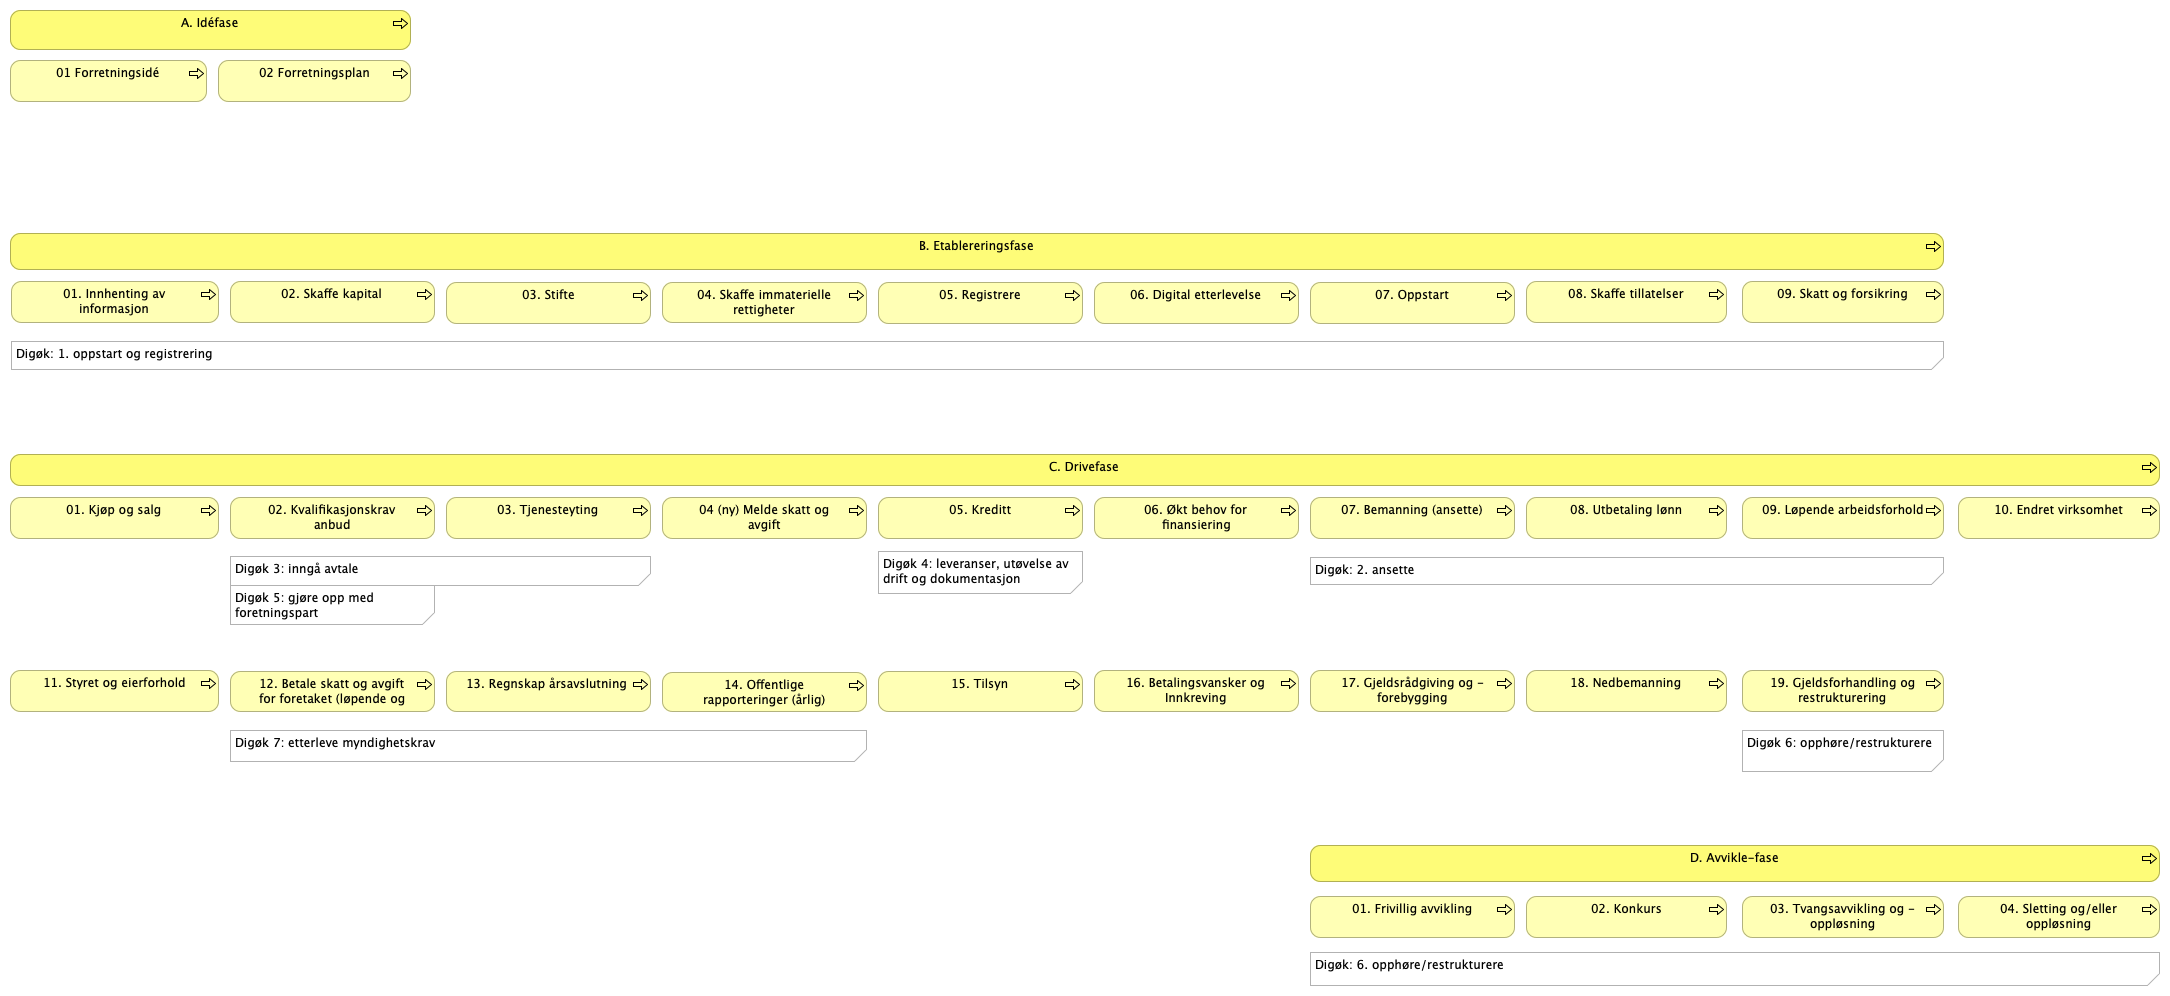
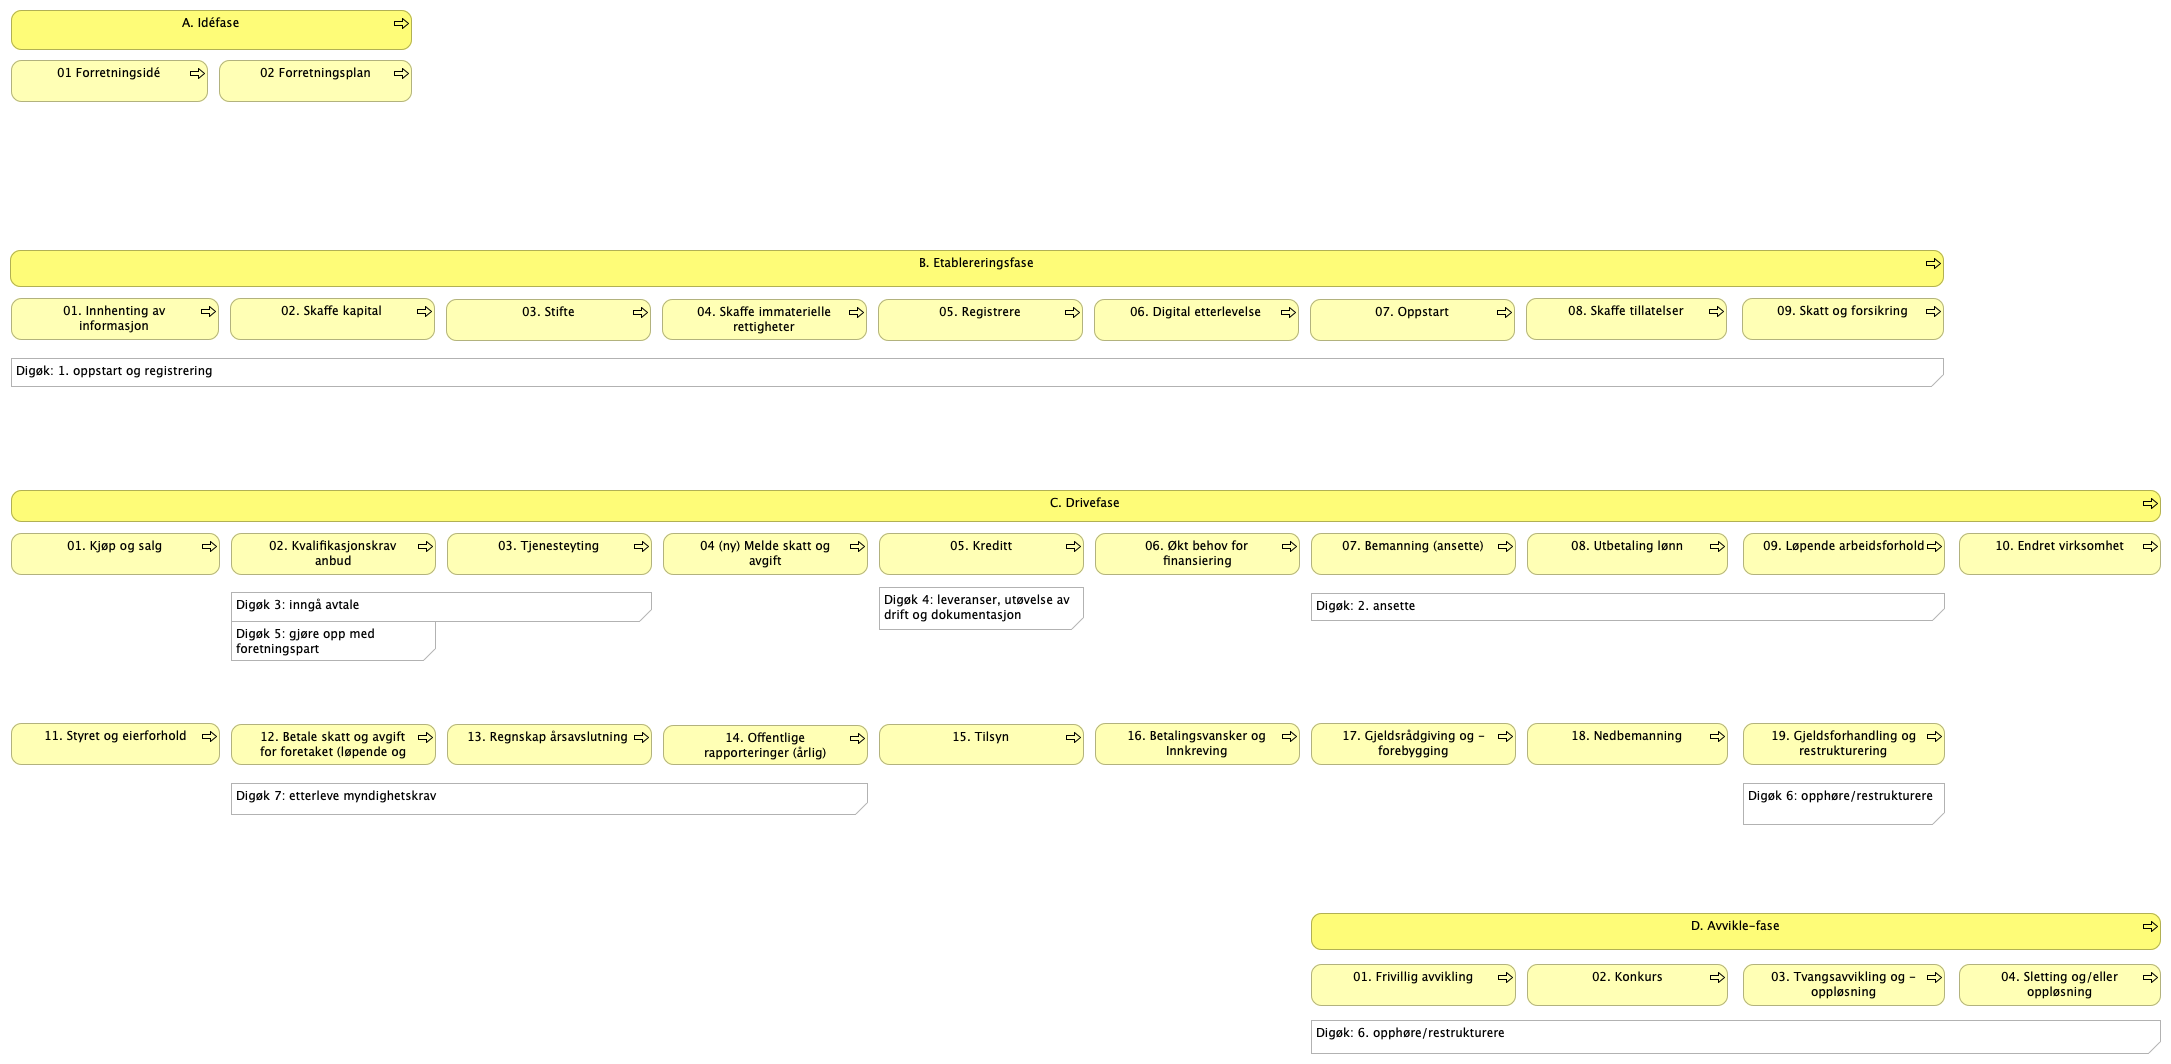
innspill fra starte og drive i Narvik

diff --git a/docs/id-0322705d/views/52bfe295-b97e-4c5e-b8cf-83361cda8c47.html b/docs/id-0322705d/views/52bfe295-b97e-4c5e-b8cf-83361cda8c47.html
@@ -27,44 +27,44 @@
 		<div class="panel-body root-panel-body">
 			<img class="diagram" src="../images/52bfe295-b97e-4c5e-b8cf-83361cda8c47.png" alt="Livshendelsen Starte og drive bedrift (user journey steg vertikalt)" usemap="#52bfe295-b97e-4c5e-b8cf-83361cda8c47map">
 			<map name="52bfe295-b97e-4c5e-b8cf-83361cda8c47map">
-						<area shape="rect" coords="11,281,219,323" href="../elements/id-083b3dd2-d55c-4f5a-9548-76d19ed866f0.html"  target="element">
-						<area shape="rect" coords="10,10,411,50" href="../elements/id-6eda348c-8aeb-427f-b6e9-52211244c8ed.html"  target="element">
-						<area shape="rect" coords="1310,845,2160,882" href="../elements/id-5c34a84a-d2c7-4e33-b891-8c106043f2ea.html"  target="element">
-						<area shape="rect" coords="10,454,2160,486" href="../elements/id-853791ec-4bd5-43f5-9a7a-6197e1851d8d.html"  target="element">
-						<area shape="rect" coords="218,60,411,102" href="../elements/id-dd6d1ca8-92ce-4a9c-b336-9996a5e63096.html"  target="element">
-						<area shape="rect" coords="230,281,435,323" href="../elements/id-de386266-2ad9-4a84-8ab0-cd6dc5b760cf.html"  target="element">
-						<area shape="rect" coords="446,282,651,324" href="../elements/id-50cd1497-82cc-4789-a4eb-c5e70a4c7d91.html"  target="element">
-						<area shape="rect" coords="878,282,1083,324" href="../elements/id-53f174b4-5cfc-487b-851e-86767ab40058.html"  target="element">
-						<area shape="rect" coords="662,282,867,323" href="../elements/id-68b7a21b-4922-4e46-a6b7-58fd41f70f33.html"  target="element">
-						<area shape="rect" coords="1094,282,1299,324" href="../elements/id-54d8ed00-b968-4f7d-9d4e-8b1b68ce1573.html"  target="element">
-						<area shape="rect" coords="1310,282,1515,324" href="../elements/id-c1c375c0-db12-46d7-9992-f7f2d91eecd5.html"  target="element">
-						<area shape="rect" coords="1526,281,1727,323" href="../elements/id-7c0bf0f8-9087-47b5-b1b7-20e29814c745.html"  target="element">
-						<area shape="rect" coords="1742,281,1944,323" href="../elements/id-26b21c42-9c54-4270-8d4c-72ed2d8515e8.html"  target="element">
-						<area shape="rect" coords="10,497,219,539" href="../elements/id-85fa73e0-1eee-44f4-a782-6141b154f8ab.html"  target="element">
-						<area shape="rect" coords="230,497,435,539" href="../elements/id-5dd712df-7a24-425a-a8b9-508170a8eec4.html"  target="element">
-						<area shape="rect" coords="878,497,1083,539" href="../elements/id-d338f3a4-5ab9-4c6e-8a37-1e2cfe7634eb.html"  target="element">
-						<area shape="rect" coords="446,497,651,539" href="../elements/id-2cc41c01-0be4-4eb3-bd4b-a0c31ba86523.html"  target="element">
-						<area shape="rect" coords="1958,497,2160,539" href="../elements/id-ec33dd1c-653e-4bdf-a2e4-7f1bebcffd6a.html"  target="element">
-						<area shape="rect" coords="1094,497,1299,539" href="../elements/id-1def7d65-fc85-4eb8-914c-c9b73d65ba23.html"  target="element">
-						<area shape="rect" coords="1310,497,1515,539" href="../elements/id-9ac9c13a-dcd7-48e0-aa8f-3cd3d7394a45.html"  target="element">
-						<area shape="rect" coords="10,670,219,712" href="../elements/id-47a79694-c1e0-4bf7-a024-98f15d69f9f8.html"  target="element">
-						<area shape="rect" coords="230,671,435,712" href="../elements/id-a8b8e395-d33c-47d0-a3e1-3d9c1c951ddf.html"  target="element">
-						<area shape="rect" coords="662,672,867,712" href="../elements/id-5d71dbe9-71cd-4d8b-a61a-ba36dc2b2b50.html"  target="element">
-						<area shape="rect" coords="1094,670,1299,712" href="../elements/id-cf0a02f5-8aae-410b-8e07-e08855c9f8ba.html"  target="element">
-						<area shape="rect" coords="878,671,1083,712" href="../elements/id-5a1ad4c9-e13c-483f-a5d1-1c10b4486595.html"  target="element">
-						<area shape="rect" coords="1310,670,1515,712" href="../elements/id-e38ed3b9-4892-416d-b15d-468b05945c82.html"  target="element">
-						<area shape="rect" coords="1526,670,1727,712" href="../elements/id-4eab1ca3-8bbe-4ab4-8e9d-461a86fe35e4.html"  target="element">
-						<area shape="rect" coords="1310,896,1515,938" href="../elements/id-826a278b-94d4-4e39-9350-c2d1732be5bc.html"  target="element">
-						<area shape="rect" coords="1526,896,1727,938" href="../elements/id-ff93e6bf-4703-46c2-b198-112399320693.html"  target="element">
-						<area shape="rect" coords="10,60,207,102" href="../elements/id-97d664a8-18a5-49a5-8032-46224917c4da.html"  target="element">
-						<area shape="rect" coords="10,233,1944,270" href="../elements/id-9ee94c99-0309-4976-82a6-858e3c457610.html"  target="element">
-						<area shape="rect" coords="1742,497,1944,539" href="../elements/0598c8b4-8e49-4456-a012-d3f65d1815d9.html"  target="element">
-						<area shape="rect" coords="446,671,651,712" href="../elements/ceabef67-9b54-4967-865b-7ac8107470e6.html"  target="element">
-						<area shape="rect" coords="1958,896,2160,938" href="../elements/aa3198f3-cc67-4a3f-9325-cb6e9142eb17.html"  target="element">
-						<area shape="rect" coords="1742,896,1944,938" href="../elements/6319be88-019b-4e7d-8128-74b6bb372a89.html"  target="element">
-						<area shape="rect" coords="1742,670,1944,712" href="../elements/338d48bd-ceb7-4d30-af94-78869df6bb09.html"  target="element">
-						<area shape="rect" coords="662,497,867,539" href="../elements/e66e50df-eac0-4077-a061-faf7541a9ce4.html"  target="element">
-						<area shape="rect" coords="1526,497,1727,539" href="../elements/0d6ed595-b82d-43b3-ba25-2dfe10a22d5e.html"  target="element">
+						<area shape="rect" coords="11,298,219,340" href="../elements/id-083b3dd2-d55c-4f5a-9548-76d19ed866f0.html"  target="element">
+						<area shape="rect" coords="11,10,412,50" href="../elements/id-6eda348c-8aeb-427f-b6e9-52211244c8ed.html"  target="element">
+						<area shape="rect" coords="1311,913,2161,950" href="../elements/id-5c34a84a-d2c7-4e33-b891-8c106043f2ea.html"  target="element">
+						<area shape="rect" coords="11,490,2161,522" href="../elements/id-853791ec-4bd5-43f5-9a7a-6197e1851d8d.html"  target="element">
+						<area shape="rect" coords="219,60,412,102" href="../elements/id-dd6d1ca8-92ce-4a9c-b336-9996a5e63096.html"  target="element">
+						<area shape="rect" coords="230,298,435,340" href="../elements/id-de386266-2ad9-4a84-8ab0-cd6dc5b760cf.html"  target="element">
+						<area shape="rect" coords="446,299,651,341" href="../elements/id-50cd1497-82cc-4789-a4eb-c5e70a4c7d91.html"  target="element">
+						<area shape="rect" coords="878,299,1083,341" href="../elements/id-53f174b4-5cfc-487b-851e-86767ab40058.html"  target="element">
+						<area shape="rect" coords="662,299,867,340" href="../elements/id-68b7a21b-4922-4e46-a6b7-58fd41f70f33.html"  target="element">
+						<area shape="rect" coords="1094,299,1299,341" href="../elements/id-54d8ed00-b968-4f7d-9d4e-8b1b68ce1573.html"  target="element">
+						<area shape="rect" coords="1310,299,1515,341" href="../elements/id-c1c375c0-db12-46d7-9992-f7f2d91eecd5.html"  target="element">
+						<area shape="rect" coords="1526,298,1727,340" href="../elements/id-7c0bf0f8-9087-47b5-b1b7-20e29814c745.html"  target="element">
+						<area shape="rect" coords="1742,298,1944,340" href="../elements/id-26b21c42-9c54-4270-8d4c-72ed2d8515e8.html"  target="element">
+						<area shape="rect" coords="11,533,220,575" href="../elements/id-85fa73e0-1eee-44f4-a782-6141b154f8ab.html"  target="element">
+						<area shape="rect" coords="231,533,436,575" href="../elements/id-5dd712df-7a24-425a-a8b9-508170a8eec4.html"  target="element">
+						<area shape="rect" coords="879,533,1084,575" href="../elements/id-d338f3a4-5ab9-4c6e-8a37-1e2cfe7634eb.html"  target="element">
+						<area shape="rect" coords="447,533,652,575" href="../elements/id-2cc41c01-0be4-4eb3-bd4b-a0c31ba86523.html"  target="element">
+						<area shape="rect" coords="1959,533,2161,575" href="../elements/id-ec33dd1c-653e-4bdf-a2e4-7f1bebcffd6a.html"  target="element">
+						<area shape="rect" coords="1095,533,1300,575" href="../elements/id-1def7d65-fc85-4eb8-914c-c9b73d65ba23.html"  target="element">
+						<area shape="rect" coords="1311,533,1516,575" href="../elements/id-9ac9c13a-dcd7-48e0-aa8f-3cd3d7394a45.html"  target="element">
+						<area shape="rect" coords="11,723,220,765" href="../elements/id-47a79694-c1e0-4bf7-a024-98f15d69f9f8.html"  target="element">
+						<area shape="rect" coords="231,724,436,765" href="../elements/id-a8b8e395-d33c-47d0-a3e1-3d9c1c951ddf.html"  target="element">
+						<area shape="rect" coords="663,725,868,765" href="../elements/id-5d71dbe9-71cd-4d8b-a61a-ba36dc2b2b50.html"  target="element">
+						<area shape="rect" coords="1095,723,1300,765" href="../elements/id-cf0a02f5-8aae-410b-8e07-e08855c9f8ba.html"  target="element">
+						<area shape="rect" coords="879,724,1084,765" href="../elements/id-5a1ad4c9-e13c-483f-a5d1-1c10b4486595.html"  target="element">
+						<area shape="rect" coords="1311,723,1516,765" href="../elements/id-e38ed3b9-4892-416d-b15d-468b05945c82.html"  target="element">
+						<area shape="rect" coords="1527,723,1728,765" href="../elements/id-4eab1ca3-8bbe-4ab4-8e9d-461a86fe35e4.html"  target="element">
+						<area shape="rect" coords="1311,964,1516,1006" href="../elements/id-826a278b-94d4-4e39-9350-c2d1732be5bc.html"  target="element">
+						<area shape="rect" coords="1527,964,1728,1006" href="../elements/id-ff93e6bf-4703-46c2-b198-112399320693.html"  target="element">
+						<area shape="rect" coords="11,60,208,102" href="../elements/id-97d664a8-18a5-49a5-8032-46224917c4da.html"  target="element">
+						<area shape="rect" coords="10,250,1944,287" href="../elements/id-9ee94c99-0309-4976-82a6-858e3c457610.html"  target="element">
+						<area shape="rect" coords="1743,533,1945,575" href="../elements/0598c8b4-8e49-4456-a012-d3f65d1815d9.html"  target="element">
+						<area shape="rect" coords="447,724,652,765" href="../elements/ceabef67-9b54-4967-865b-7ac8107470e6.html"  target="element">
+						<area shape="rect" coords="1959,964,2161,1006" href="../elements/aa3198f3-cc67-4a3f-9325-cb6e9142eb17.html"  target="element">
+						<area shape="rect" coords="1743,964,1945,1006" href="../elements/6319be88-019b-4e7d-8128-74b6bb372a89.html"  target="element">
+						<area shape="rect" coords="1743,723,1945,765" href="../elements/338d48bd-ceb7-4d30-af94-78869df6bb09.html"  target="element">
+						<area shape="rect" coords="663,533,868,575" href="../elements/e66e50df-eac0-4077-a061-faf7541a9ce4.html"  target="element">
+						<area shape="rect" coords="1527,533,1728,575" href="../elements/0d6ed595-b82d-43b3-ba25-2dfe10a22d5e.html"  target="element">
 
 			</map>
 			<div role="tabpanel">
